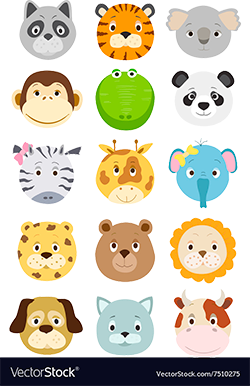
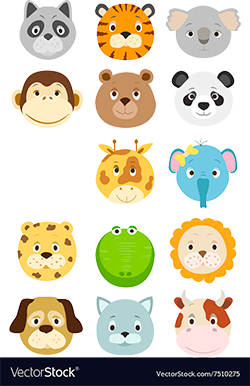
Sorteando

Changed region(s): [[0.364, 0.5596, 0.644, 0.7461], [0.364, 0.1554, 0.644, 0.342], [0.056, 0.3731, 0.336, 0.5285]]

diff --git a/res/style.css b/res/style.css
@@ -7,7 +7,7 @@ body{
   background: linear-gradient(to left, rgb(188,237,27) 50%, rgb(18,135,100) 50%);
 }
 #content{
-  width: 800px;
+  width: 775px;
   margin:auto;
   vertical-align: middle;
 }
@@ -17,7 +17,7 @@ body{
   background:rgb(5,165,172);
 }
 #jogo{
-  width:800px;
+  width:775px;
   height:600px;
   background:#eee  /*temporario*/;
 }
@@ -35,7 +35,7 @@ body{
   background-position-x: -91px;
     background-position-Y: 0px;
 }
-.esqueci{
+.koala{
   background-position-x: -168px;
     background-position-Y: 0px;
 }
@@ -43,11 +43,15 @@ body{
   background-position-x: -13px;
   background-position-Y: -69px;
 }
-.jacare{
+.urso{
   background-position-x: -86px;
   background-position-Y: -68px;
 }
 .panda{
   background-position-x: -167px;
     background-position-Y: -68px;
+}
+.vazio{
+  background-position-x: -11px;
+  background-position-Y: -144px;
 }

diff --git a/res/script.js b/res/script.js
@@ -1,3 +1,20 @@
-$(document).ready(function(){
-  $("#helpme").hide();
+var animais = ["gato","onca","koala","macaco","urso","panda", "vazio"];
+var posicoes = ["vazio"];
+$( document ).ready(function() {
+sortBubbles();
 });
+
+function sortBubbles(){
+  var cont = 0;
+  console.log('Sorteando Bolas!');
+  for(var i = 0; i< 55; i++){
+    var randomico = Math.floor(Math.random()*animais.length);
+    posicoes[i] = animais[randomico];
+  }
+  for (i = 0; i < 5; i++){
+    for (var j = 0; j< 11; j++){
+      var jogo = $("#jogo");
+      jogo.append('<div class="image '+ posicoes[cont++] + '" style=" margin-top:'+ 70 * i  +'px ; margin-left:'+ 70 * j +'px" >');
+    }
+  }
+}

diff --git a/index.html b/index.html
@@ -13,7 +13,7 @@
          BUBBLE SHOOT ANIMALS
        </div>
        <div id="jogo">
-         <div class="image gato"></div>
+
        </div>
      </section>
     </body>
